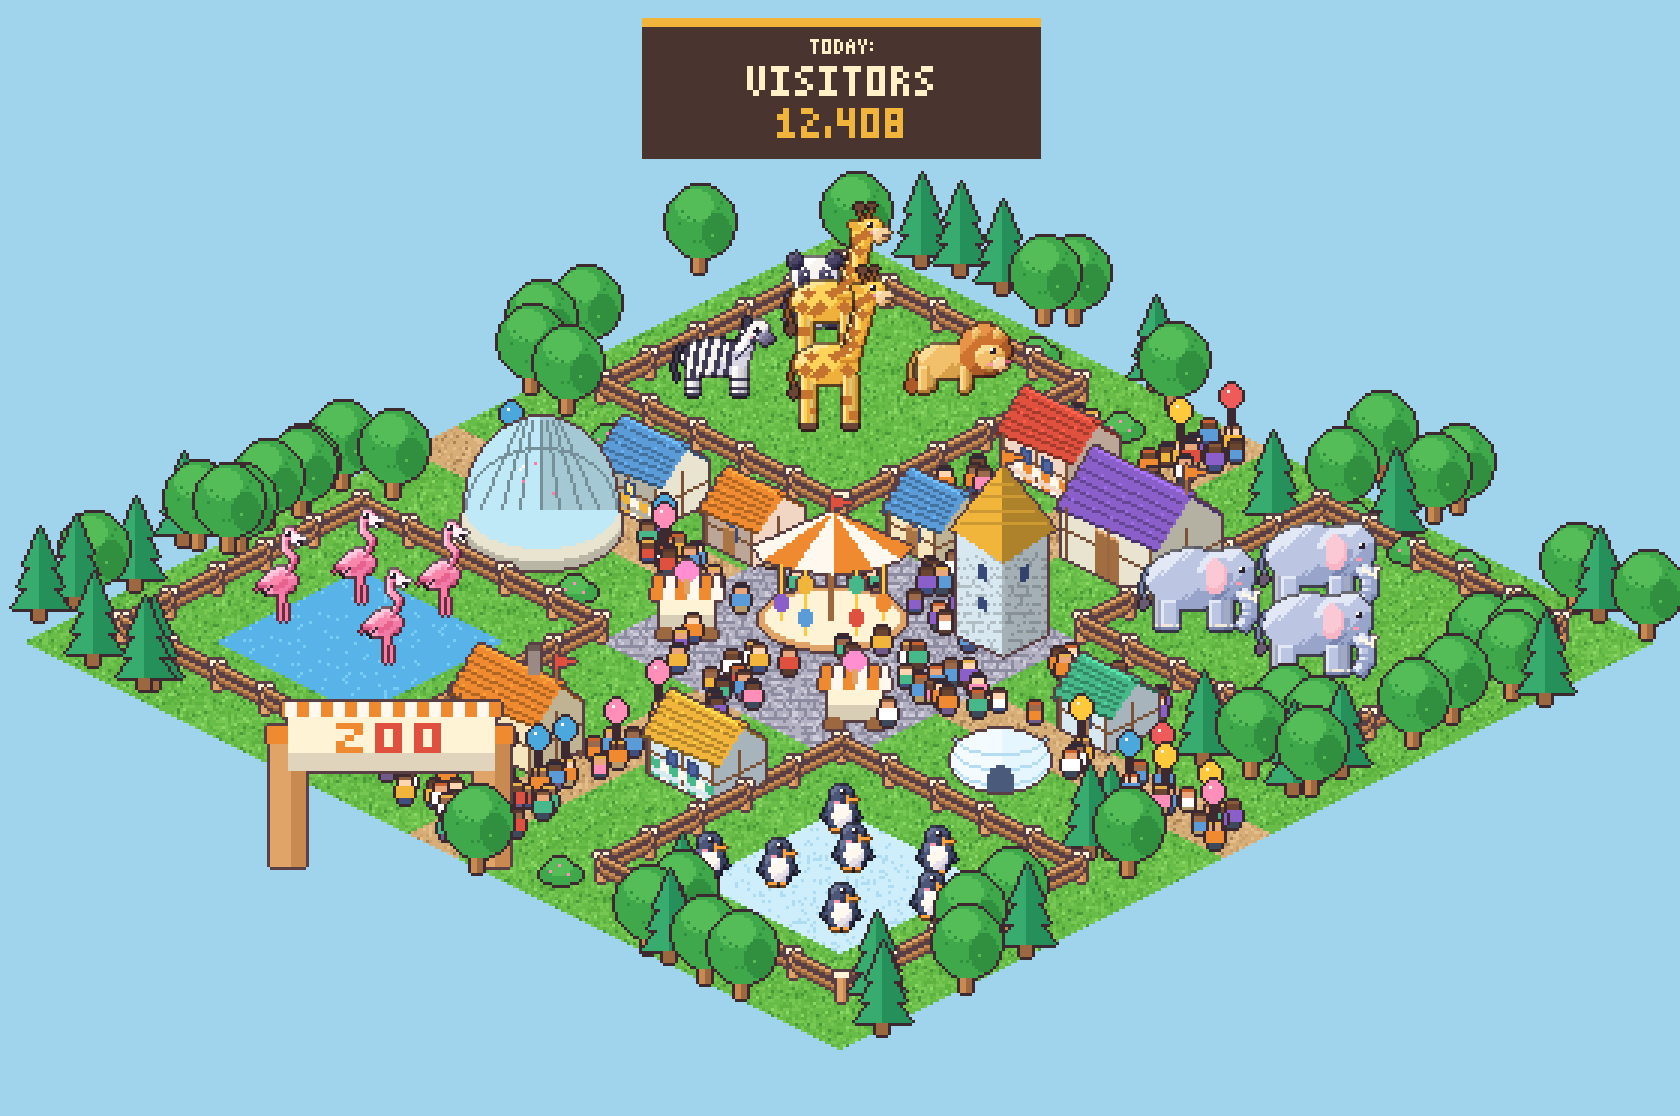
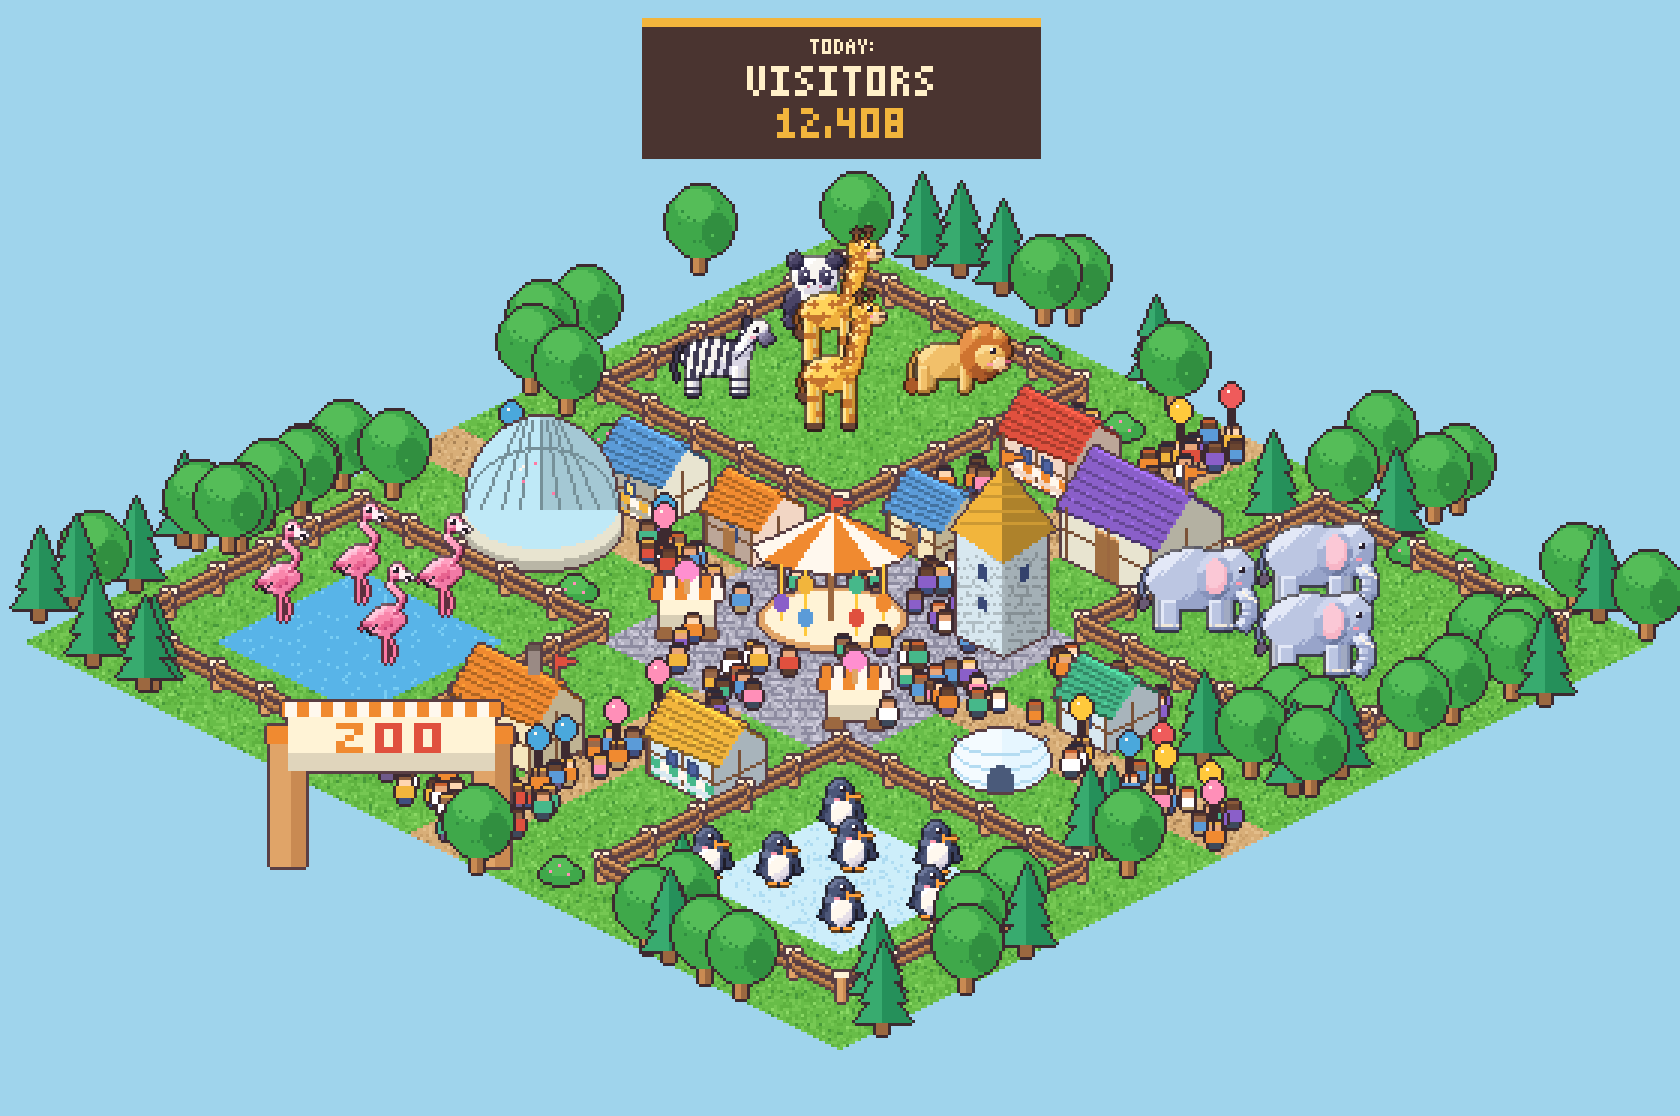
Zvířata: doladění (slon, lev, zebra), měřítko na zvíře, nosorožec, medvěd, želva

Changed region(s): [[0.4024, 0.7007, 0.5881, 0.8226], [0.4643, 0.1828, 0.5262, 0.3961], [0.1548, 0.457, 0.2786, 0.5789]]

diff --git a/art/proto/animals.py b/art/proto/animals.py
@@ -27,6 +27,10 @@ R = dict(
   pen=ramp('#6b7699', '#4c5678', '#38405f', '#2a3050'),
   mon=ramp('#c68a5a', '#a86e42', '#855230', '#653c22'),
   tan=ramp('#ffe9c4', '#f6d3a0', '#e3b378', '#c98f58'),
+  ele_ear=ramp('#cfd6ee', '#a9b4d6', '#8793bb', '#6d799f'),
+  rhi=ramp('#e0dce6', '#bdb7c9', '#9a94ab', '#7a758c'),
+  bear=ramp('#b98660', '#96653f', '#744a2c', '#563620'),
+  shell=ramp('#8fd36a', '#5fb44a', '#43923a', '#2f722e'),
   white=ramp('#ffffff', '#fff8ee', '#e6dfe8', '#cbc4d4'),
   pink=ramp('#ffd0dc', '#f9aabf', '#e68aa6', '#c96b88'),
 )
@@ -151,10 +155,10 @@ def elephant():
     c.line([(43, 23), (45, 28), (45, 33), (42, 37)], 5.2, rp=r, depth=2)
     for yy in (27, 30, 33):
         c.overlay(lambda d, s, yy=yy: d.line([(s(42), s(yy)), (s(47), s(yy))], fill=255), r[2])
-    c.blob(32, 18, 6.5, 9, r, tilt=.12)                         # ucho
+    c.blob(32, 18, 6.5, 9, R['ele_ear'], tilt=.12)              # ucho
     c.blob(32.5, 18.5, 4, 6.5, R['pink'], tilt=.12, flat=hx('#f7b5c6'))
     c.blob(32, 17, 3.6, 5.5, R['pink'], tilt=.12, flat=hx('#fbc8d6'))
-    c.line([(43, 24), (47, 26), (48, 24)], 2, flat=hx('#fff6e4'))
+    c.line([(43, 24), (47, 27)], 1.6, flat=hx('#fff6e4'))
     c.eye(42, 15); c.blush(41, 20)
     return c.done()
 
@@ -195,7 +199,7 @@ def zebra():
     c.blush(31, 9, hx('#f6a8bf'))
     for xx in range(7, 25, 4):
         c.overlay(lambda d, s, xx=xx: d.polygon([(s(xx), s(10)), (s(xx + 1.2), s(10)), (s(xx - 1.8), s(24)), (s(xx - 3), s(24))], fill=255), k)
-    for (a, b) in [(25, 14), (28, 11), (30, 8)]:
+    for (a, b) in [(25, 14), (29, 10)]:
         c.overlay(lambda d, s, a=a, b=b: d.line([(s(a), s(b + 3)), (s(a + 4), s(b - 1))], fill=255, width=max(1, int(K))), k)
     for yy in (25, 28):
         for lx in (7, 9, 24, 26):
@@ -208,6 +212,7 @@ def lion():
     c.blob(14, 16, 11, 6.5, r)
     c.limb(4, 18, 8, 28, 4, r); c.limb(19, 18, 23, 28, 4, r)
     c.line([(3, 13), (0, 18), (1, 24)], 1.4, flat=r[2]); c.blob(1, 25, 2, 2.6, m, flat=m[2])
+    c.blob(27, 17, 7, 6, m)                                    # hříva na hrudi
     c.blob(28, 12, 9.5, 9.5, m)
     c.blob(30, 14.5, 5.5, 5, r)
     c.blob(34, 17, 3.2, 2.5, R['tan'])
@@ -304,14 +309,67 @@ def monkey():
     c.blob(10, 20, 3, 3.4, R['tan'])
     return c.done()
 
+
+def rhino():
+    c = Cv(48, 30); r = R['rhi']
+    c.limb(10, 18, 16, 27, 5, r, far=True); c.limb(28, 18, 34, 27, 5, r, far=True)
+    c.blob(21, 16, 16, 9, r)
+    c.limb(7, 18, 13, 28, 5.5, r); c.limb(26, 18, 32, 28, 5.5, r)
+    c.line([(5, 12), (3, 18)], 1.3, flat=r[2])
+    c.blob(37, 17, 8.5, 7, r, tilt=.12)
+    c.blob(43, 20, 4.5, 4, r)
+    c.poly([(40, 14), (44, 5), (45, 15)], ramp('#fff6e4', '#f1dcb4', '#d8bd8a', '#b89a68'))   # roh
+    c.poly([(36, 12), (38, 8), (39, 13)], flat=hx('#e6d2a8'))
+    c.blob(32, 10, 2.4, 3, r, tilt=-.3); c.eye(37, 14); c.px(45, 20, hx('#4a3a4a')); c.px(44, 19, hx('#4a3a4a'))
+    c.line([(38, 22), (46, 22)], 1.0, flat=hx('#6a5a74'))
+    c.blush(35, 18, hx('#f2a0c0'))
+    return c.done()
+
+def bear():
+    c = Cv(40, 32); r = R['bear']
+    c.limb(8, 19, 13, 29, 5, r, far=True); c.limb(24, 19, 29, 29, 5, r, far=True)
+    c.blob(17, 17, 12.5, 8, r)
+    c.limb(6, 20, 11, 30, 5, r); c.limb(22, 20, 27, 30, 5, r)
+    c.blob(4, 14, 2.2, 2.2, r)
+    c.blob(30, 15, 7.2, 6.8, r)
+    c.blob(35, 18, 3.6, 3, R['tan'])
+    c.px(37, 17, hx('#2a1f2d')); c.px(38, 17, hx('#2a1f2d')); c.px(36, 20, hx('#6a3a3a'))
+    c.blob(25, 9, 2.6, 2.6, r); c.blob(33, 8.5, 2.6, 2.6, r)
+    c.blob(25, 9, 1.2, 1.2, R['tan']); c.blob(33, 8.5, 1.2, 1.2, R['tan'])
+    c.eye(32, 13); c.blush(30, 18)
+    return c.done()
+
+def turtle():
+    c = Cv(26, 16); r = R['shell']; sk = ramp('#d9e8a0', '#bcd477', '#98b457', '#7a9440')
+    c.blob(21, 9, 3.2, 2.8, sk)
+    c.blob(5, 13, 2.4, 1.8, sk); c.blob(17, 13, 2.4, 1.8, sk)
+    c.blob(12, 8, 9.5, 6, r)
+    for (x, y) in [(9, 6), (14, 5.5), (12, 9), (7, 9.5), (17, 9.5)]:
+        c.overlay(lambda d, s, x=x, y=y: d.ellipse([s(x - 1.6), s(y - 1.2), s(x + 1.6), s(y + 1.2)], outline=255), r[3])
+    c.eye(22, 8); c.blush(21, 10)
+    return c.done()
+
+ANIMALS_EXTRA = [('rhino', rhino), ('bear', bear), ('turtle', turtle)]
+ANIMAL_K = dict(giraffe=0.76, elephant=0.9, hippo=0.9, rhino=0.9, penguin=1.0, flamingo=0.95)
+
+def _wrap(fn, k):
+    def f():
+        global K
+        old = K; K = k
+        try: return fn()
+        finally: K = old
+    f.__name__ = fn.__name__
+    return f
+
 ANIMALS = [('elephant', elephant), ('giraffe', giraffe), ('zebra', zebra), ('lion', lion), ('tiger', tiger),
-           ('panda', panda), ('hippo', hippo), ('flamingo', flamingo), ('penguin', penguin), ('monkey', monkey)]
+           ('panda', panda), ('hippo', hippo), ('flamingo', flamingo), ('penguin', penguin), ('monkey', monkey)] + ANIMALS_EXTRA
+ANIMALS = [(n, _wrap(f, ANIMAL_K.get(n, 0.9))) for n, f in ANIMALS]
 
 def sheet(scale=5):
     items = [(n, f()) for n, f in ANIMALS]
     pad = 10
     W = sum(im.width * 2 + pad * 3 for _, im in items) // 2 + pad
-    cols = 5
+    cols = 7
     cellw = max(im.width for _, im in items) * 2 + 3 * pad
     cellh = max(im.height for _, im in items) + 2 * pad
     sh = Image.new('RGBA', (cols * cellw, 2 * cellh), za.S['grass'][0])
@@ -339,7 +397,7 @@ def scene_with_new_animals(out):
     """scéna stylu C s novými zvířaty (přepíše staré funkce v zoo_art)"""
     za.load_style('C_hybrid')
     for n in ('elephant', 'giraffe', 'zebra', 'lion', 'panda', 'flamingo', 'penguin'):
-        setattr(za, n, globals()[n])
+        setattr(za, n, dict(ANIMALS)[n])
     sc = za.make_scene2()
     sc = za.tone(sc, za.S['sat'], za.S['bright']); za.hud(sc, None)
     sc.resize((sc.width * 3, sc.height * 3), Image.NEAREST).save(out)
